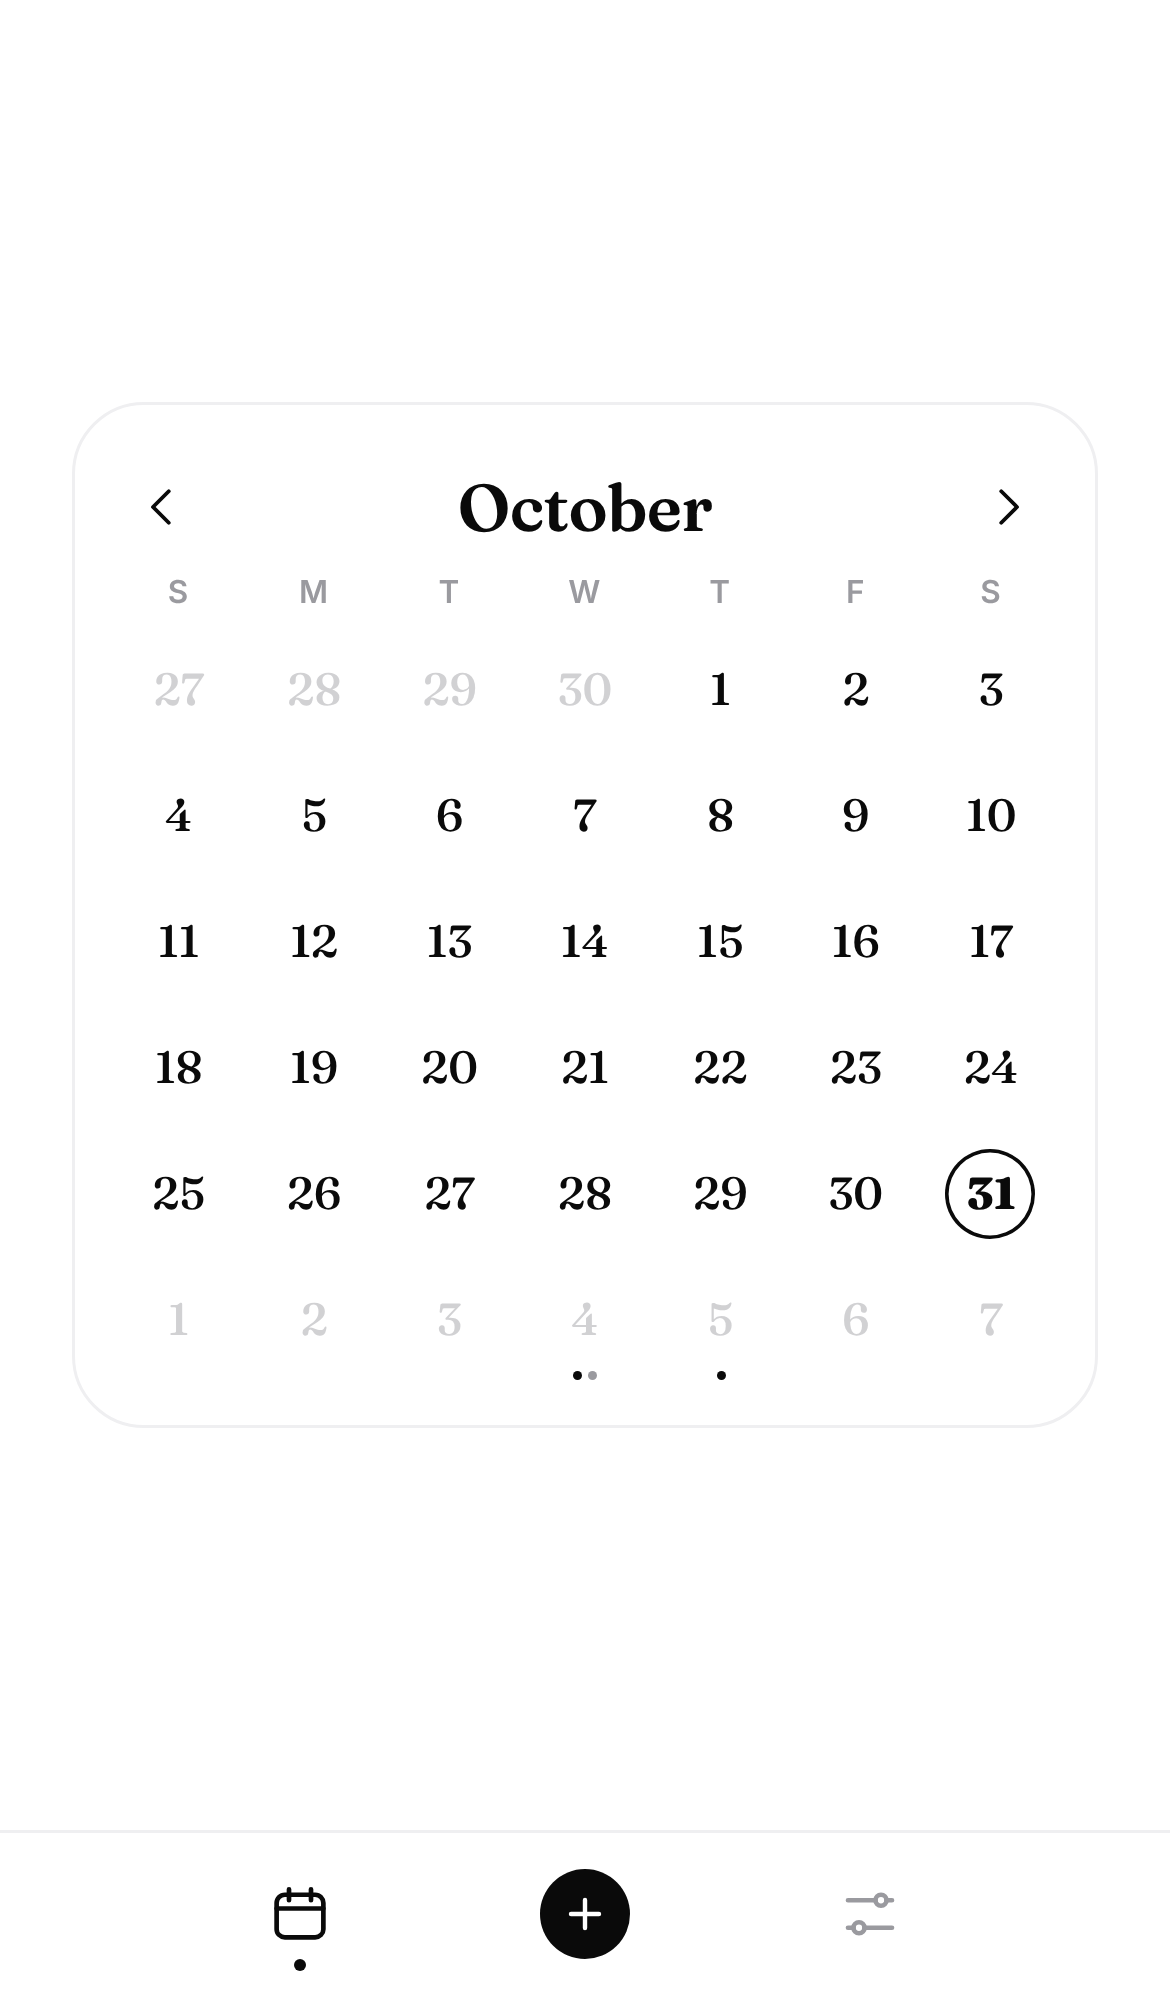
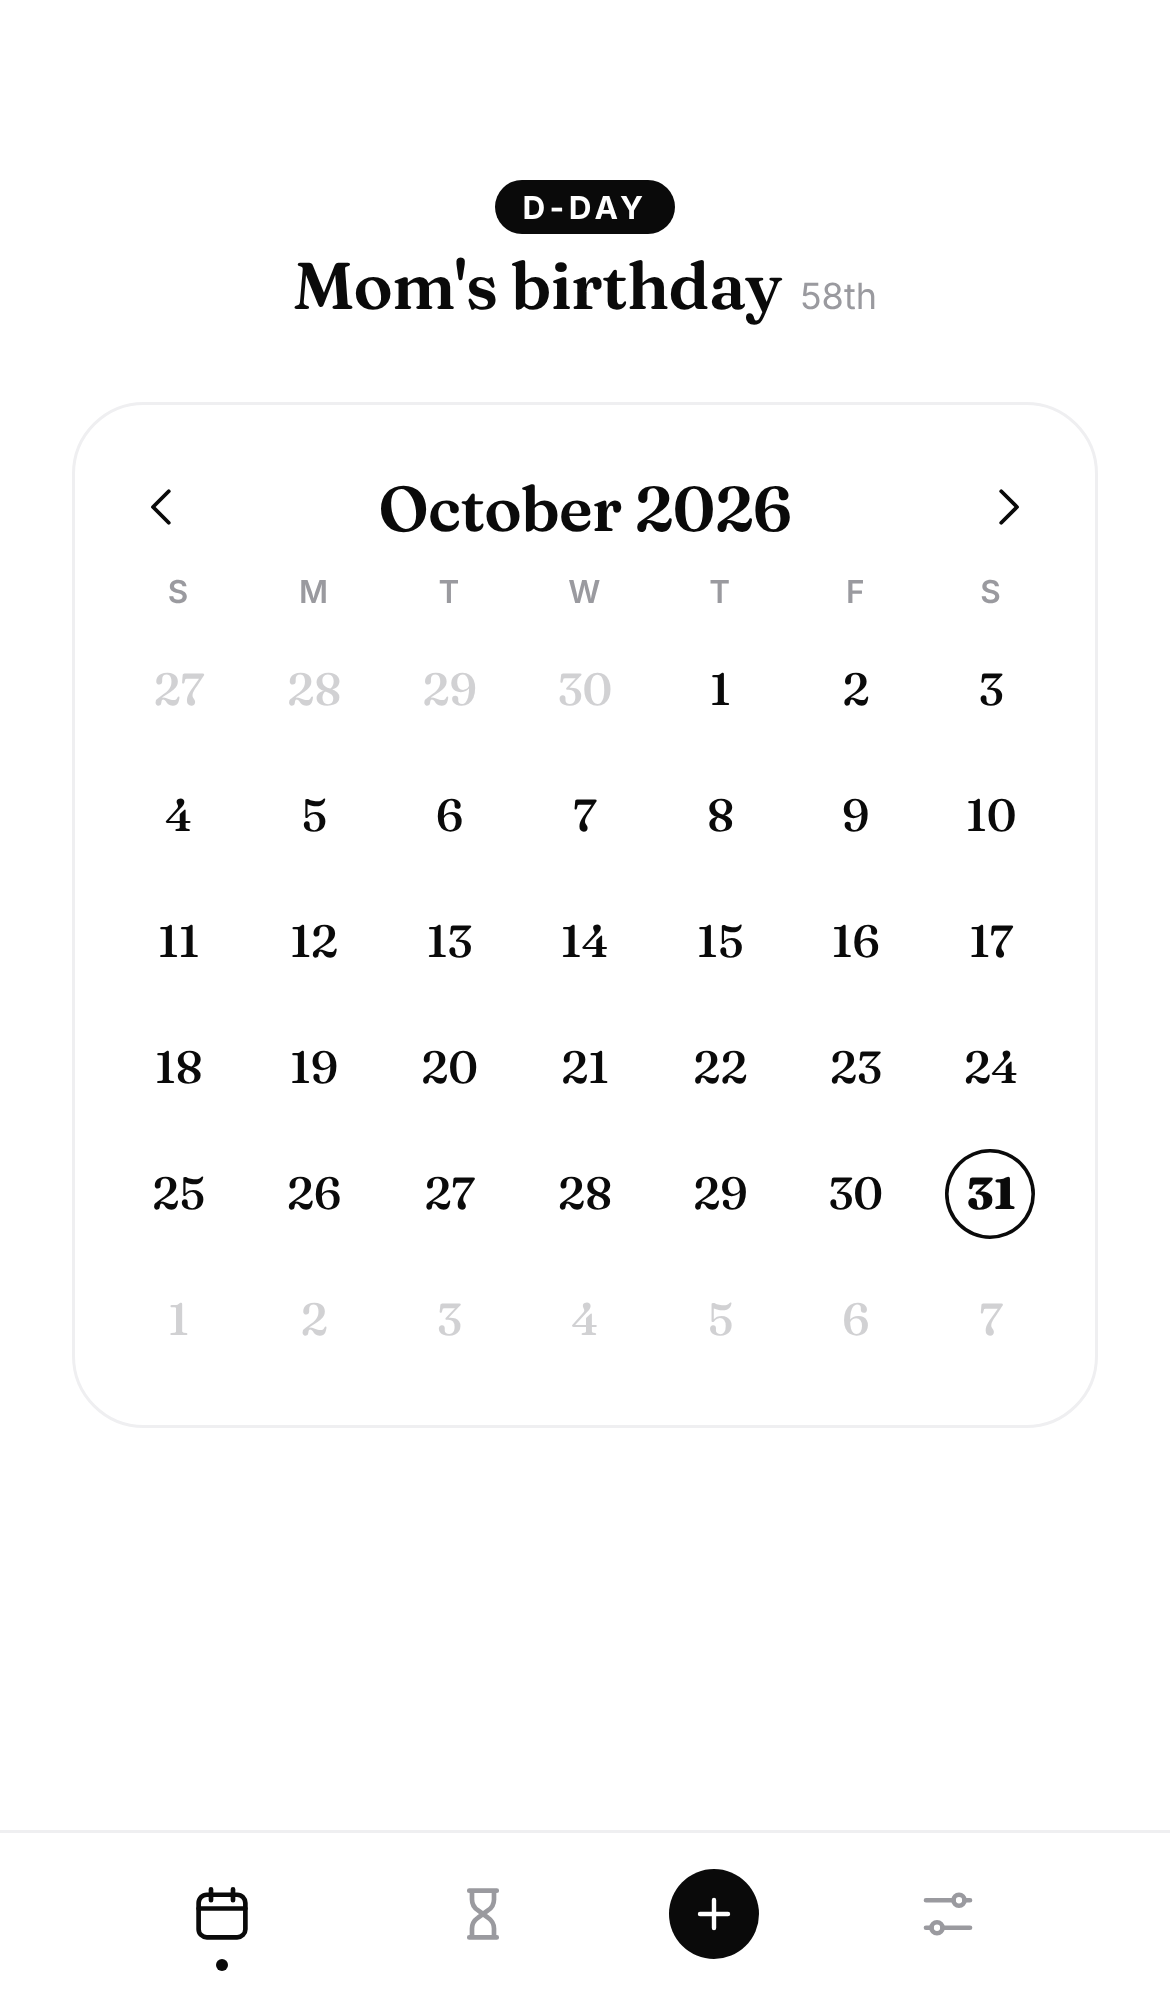
Show today's D-Days above the calendar on the starting screen
When a D-Day falls on today, it appears in the free space above the
centered month calendar (label, title, and e.g. "58th"). Tapping it opens
the D-Day tab; it fades out in week mode and never moves the calendar.
Bump service worker cache to planner-v12.

Claude-Session: https://claude.ai/code/session_01ASSW9g954rm1kx6hrjz3o3

diff --git a/js/dday.js b/js/dday.js
@@ -12,12 +12,31 @@ const ordinal = (n) => {
   return `${n}${s[(v - 20) % 10] || s[v] || s[0]}`;
 };
 
+// "58th" for yearly D-Days whose start year is known, else null.
+function nthOf(d, targetKey) {
+  const year = parseKey(targetKey).getFullYear();
+  const startYear = parseKey(d.date).getFullYear();
+  return d.yearly && year > startYear ? ordinal(year - startYear) : null;
+}
+
+// Shown above the calendar on the starting screen when a D-Day is today.
+export function renderTodayDdays(root, onOpen) {
+  const today = todayKey();
+  const hits = state.ddays.filter((d) => ddayDiff(d, today) === 0);
+  root.replaceChildren(hits.length
+    ? h('button', { class: 'today-dday', 'aria-label': 'Open D-Day', onclick: onOpen },
+      h('span', { class: 'tdd-label' }, 'D-Day'),
+      hits.map((d) => h('span', { class: 'tdd-item' },
+        h('span', { class: 'tdd-title display' }, d.title),
+        nthOf(d, today) ? h('span', { class: 'tdd-sub' }, nthOf(d, today)) : null)))
+    : '');
+}
+
 function row(d) {
   const target = ddayTarget(d);
   const diff = ddayDiff(d);
   const date = parseKey(target);
-  const startYear = parseKey(d.date).getFullYear();
-  const nth = d.yearly && date.getFullYear() > startYear ? ordinal(date.getFullYear() - startYear) : null;
+  const nth = nthOf(d, target);
   const when = date.toLocaleDateString(undefined, {
     month: 'short', day: 'numeric', year: date.getFullYear() === new Date().getFullYear() ? undefined : 'numeric',
   });

diff --git a/js/app.js b/js/app.js
@@ -4,7 +4,7 @@ import { renderCalendar } from './calendar.js';
 import { renderDay, currentLayout, tickTimers } from './day.js';
 import { openEditor } from './editor.js';
 import { renderSettings, applyTheme } from './settings.js';
-import { renderDdays, openDdaySheet } from './dday.js';
+import { renderDdays, openDdaySheet, renderTodayDdays } from './dday.js';
 import { refreshReminders, setToast } from './reminders.js';
 
 const calendarView = document.getElementById('view-calendar');
@@ -13,6 +13,7 @@ const panelEl = document.getElementById('panel');
 const settingsEl = document.getElementById('view-settings');
 const ddayEl = document.getElementById('view-dday');
 const toastEl = document.getElementById('toast');
+const topSlot = document.getElementById('top-slot');
 
 // view.selected = 'YYYY-MM-DD' → week mode; null → month mode.
 const now = new Date();
@@ -65,6 +66,7 @@ function render() {
   if (view.tab === 'dday') { renderDdays(ddayEl); return; }
 
   renderCalendar(calendarEl, view, prevView, actions);
+  renderTodayDdays(topSlot, () => { view.tab = 'dday'; render(); });
   // Month mode shows only the calendar, centered; the panel's old content just fades out.
   calendarView.classList.toggle('week-mode', !!view.selected);
   calendarView.classList.toggle('month-mode', !view.selected);

diff --git a/styles.css b/styles.css
@@ -77,6 +77,22 @@ svg { width: 20px; height: 20px; fill: none; stroke: currentColor; stroke-width:
 .grow { flex: 1 1 0; transition: flex-grow .4s cubic-bezier(.2,.8,.2,1); }
 .week-mode .grow { flex-grow: 0; }
 
+/* Today's D-Days sit in the free space above the centered calendar (month mode only).
+   The slot keeps flex-basis 0, so its content never pushes the calendar off center. */
+.top-slot { min-height: 0; display: flex; flex-direction: column; justify-content: flex-end; align-items: center; }
+.today-dday {
+  display: grid; justify-items: center; gap: 4px; margin-bottom: 22px; padding: 4px 16px;
+  transition: opacity .25s;
+}
+.week-mode .today-dday { opacity: 0; pointer-events: none; }
+.tdd-label {
+  font-size: 10.5px; font-weight: 700; letter-spacing: .14em; text-transform: uppercase;
+  color: var(--on-accent); background: var(--accent); border-radius: 999px; padding: 3px 9px 2px;
+}
+.tdd-item { display: flex; align-items: baseline; gap: 6px; }
+.tdd-title { font-size: 22px; line-height: 1.2; }
+.tdd-sub { font-size: 12px; color: var(--muted); }
+
 /* ---------- Calendar ---------- */
 .calendar {
   flex: none;

diff --git a/index.html b/index.html
@@ -17,7 +17,7 @@
 </head>
 <body>
   <div class="view month-mode" id="view-calendar">
-    <div class="grow" aria-hidden="true"></div>
+    <div class="grow top-slot" id="top-slot"></div>
     <section class="calendar" id="calendar" aria-label="Calendar"></section>
     <main class="panel" id="panel"></main>
     <div class="grow" aria-hidden="true"></div>

diff --git a/sw.js b/sw.js
@@ -1,5 +1,5 @@
 // Bump CACHE whenever any file in ASSETS changes, so installed copies update.
-const CACHE = 'planner-v11';
+const CACHE = 'planner-v12';
 const ASSETS = [
   './',
   'index.html',

diff --git a/CLAUDE.md b/CLAUDE.md
@@ -71,6 +71,9 @@ laptop. So:
   shows title, date (+ ↻ and "58th" for yearly ones) and a big "D-12" / "D-Day" /
   "D+30". Upcoming sorted soonest first; past one-off dates count up under "Since".
   Yearly entries roll to the next occurrence (`ddayTarget`). Tap a row to edit/delete.
+  **On the day itself**, the starting screen (month mode) shows it in the free space
+  above the centered calendar (`#top-slot`, `renderTodayDdays`); tapping it opens the
+  D-Day tab. It fades out in week mode and never shifts the calendar off center.
 - **Tracking (opt-in per to-do)**: editor "Track" = Off | Count | Time. Only tracked
   to-dos show a number pill: Count → tap to enter a number; Time → tap to type
   minutes/h:mm, plus a ▶/■ stopwatch (stored as a start timestamp, so it keeps
@@ -180,7 +183,7 @@ GitHub Pages serving the repo root (all paths are relative, so it works under
 `/APP-Design/`): repo Settings → Pages → Deploy from a branch → branch, `/ (root)`.
 
 **When you change any file the app loads, bump `CACHE` in `sw.js`**
-(currently `planner-v11`; bump to `planner-v12`, …) and keep its `ASSETS` list in sync
+(currently `planner-v12`; bump to `planner-v13`, …) and keep its `ASSETS` list in sync
 with every file in `js/` and `fonts/`, otherwise installed phones keep stale files.
 
 ## Git conventions
